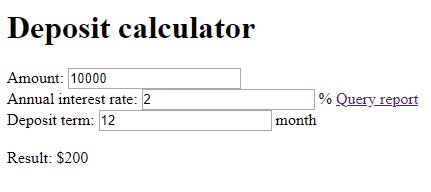
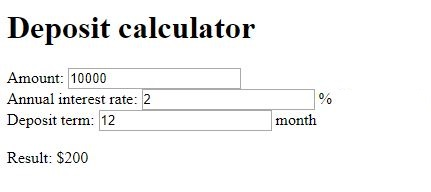
[+] add lightbox css style to art.md. [+] post 2019-04-10-Fix terminal after displaying binary codes

Changed region(s): [[0.7541, 0.4688, 0.9954, 0.5625]]

diff --git a/apps/google_pinyin_input_method_exercise_book/index.html b/apps/google_pinyin_input_method_exercise_book/index.html
@@ -147,7 +147,7 @@ function showBlockPage(){
 			      <li>前面帶有聲母的組合，舉例：ㄅㄧㄚ，聲母為ㄅ加上ㄧㄚ的組合，拼音為bia。</li>
 			      <li>注音一行拼音為<span style="color:blue">i<span>，ㄨ、ㄩ行拼音為<span style="color:blue">u</span>。</li>
 			      <li>如拼音不為兩個字，縮減為兩個字。例如：ㄧㄡ拼音為<span style="color:blue">iou</span>，留頭尾兩個字為<span style="color:blue">iu</span>。</li>
-	      <li>韻母為鼻音ㄥ，則留頭，尾巴留<span style="color:blue">ng</span>，共三個字。特例：ㄩㄥ，拼音為<span style="color:blue">iong</span>，ㄨㄥ，拼音為<span style="color:blue">ong</span>。這兩字發音與英文類似。例子：熊ㄒㄩㄥ，拼音為<span style="color:blue">xiong</span>。
+	      <li>韻母為鼻音ㄥ，則留頭，尾巴留<span style="color:blue">ng</span>，共三個字。特例：ㄩㄥ，拼音為<span style="color:blue">iong</span>，ㄨㄥ，拼音為<span style="color:blue">ong</span>。這兩字發音與英文類似。例子：熊ㄒㄩㄥ，拼音為<span style="color:blue">xiong</span>，翁ㄨㄥ，拼音為<span style="color:blue">weng</span>。
 	      </li>
 	      </h4>
 	      <table class="table table-striped">

diff --git a/apps/deposit-calculator/index.html b/apps/deposit-calculator/index.html
@@ -7,7 +7,7 @@
 <div ng-app="myApp" ng-controller="myCtrl">
 
 Amount: <input type="text" ng-model="amount" value="10000"/><br>
-Annual interest rate: <input type="text" ng-model="annualRate" value="2"/> % <a href="https://ebank.taipeifubon.com.tw/B2C/cfhqu/cfhqu012/CFHQU012_Home.faces?popupMode=true">Query report</a><br>
+Annual interest rate: <input type="text" ng-model="annualRate" value="2"/> % <!--<a href="https://ebank.taipeifubon.com.tw/B2C/cfhqu/cfhqu012/CFHQU012_Home.faces?popupMode=true">Query report</a>--><br>
 Deposit term: <input type="text" ng-model="depositTerm" value="12"/> month<br>
 <br>
 Result: ${{result()}}

diff --git a/assets/main.scss b/assets/main.scss
@@ -1,5 +1,5 @@
 ---
 # Only the main Sass file needs front matter (the dashes are enough)
 ---
-
+img{border:lightgray 1px dashed;}
 @import "minima";

diff --git a/art.md b/art.md
@@ -3,16 +3,244 @@ layout: page
 title: Art
 permalink: /art/
 ---
+<style>
+.row > .column {
+  padding: 0 8px;
+}
 
-This is the base Jekyll theme. You can find out more info about customizing your Jekyll theme, as well as basic Jekyll usage documentation at [jekyllrb.com](https://jekyllrb.com/)
+.row:after {
+  content: "";
+  display: table;
+  clear: both;
+}
 
-You can find the source code for Minima at GitHub:
-[jekyll][jekyll-organization] /
-[minima](https://github.com/jekyll/minima)
+/* Create four equal columns that floats next to eachother */
+.column {
+  float: left;
+  width: 25%;
+}
 
-You can find the source code for Jekyll at GitHub:
-[jekyll][jekyll-organization] /
-[jekyll](https://github.com/jekyll/jekyll)
+/* The Modal (background) */
+.modal {
+  display: none;
+  position: fixed;
+  z-index: 1;
+  padding-top: 100px;
+  left: 0;
+  top: 0;
+  width: 100%;
+  height: 100%;
+  overflow: auto;
+  background-color: black;
+}
+
+/* Modal Content */
+.modal-content {
+  position: relative;
+  background-color: #fefefe;
+  margin: auto;
+  padding: 0;
+  width: 90%;
+  max-width: 1200px;
+}
+
+/* The Close Button */
+.close {
+  color: white;
+  position: absolute;
+  top: 10px;
+  right: 25px;
+  font-size: 35px;
+  font-weight: bold;
+}
+
+.close:hover,
+.close:focus {
+  color: #999;
+  text-decoration: none;
+  cursor: pointer;
+}
+
+/* Hide the slides by default */
+.mySlides {
+  display: none;
+}
+
+/* Next & previous buttons */
+.prev,
+.next {
+  cursor: pointer;
+  position: absolute;
+  top: 50%;
+  width: auto;
+  padding: 16px;
+  margin-top: -50px;
+  color: white;
+  font-weight: bold;
+  font-size: 20px;
+  transition: 0.6s ease;
+  border-radius: 0 3px 3px 0;
+  user-select: none;
+  -webkit-user-select: none;
+}
+
+/* Position the "next button" to the right */
+.next {
+  right: 0;
+  border-radius: 3px 0 0 3px;
+}
+
+/* On hover, add a black background color with a little bit see-through */
+.prev:hover,
+.next:hover {
+  background-color: rgba(0, 0, 0, 0.8);
+}
+
+/* Number text (1/3 etc) */
+.numbertext {
+  color: #f2f2f2;
+  font-size: 12px;
+  padding: 8px 12px;
+  position: absolute;
+  top: 0;
+}
+
+/* Caption text */
+.caption-container {
+  text-align: center;
+  background-color: black;
+  padding: 2px 16px;
+  color: white;
+}
+
+img.demo {
+  opacity: 0.6;
+}
+
+.active,
+.demo:hover {
+  opacity: 1;
+}
+
+img.hover-shadow {
+  transition: 0.3s;
+}
+
+.hover-shadow:hover {
+  box-shadow: 0 4px 8px 0 rgba(0, 0, 0, 0.2), 0 6px 20px 0 rgba(0, 0, 0, 0.19);
+}
+</style>
+
+<h1>Gallery</h1>
+<!-- Images used to open the lightbox -->
+<div class="row">
+  <div class="column">
+    <img src="/assets/img_nature.jpg" onclick="openModal();currentSlide(1)" class="hover-shadow">
+  </div>
+  <div class="column">
+    <img src="/assets/img_snow.jpg" onclick="openModal();currentSlide(2)" class="hover-shadow">
+  </div>
+  <div class="column">
+    <img src="/assets/img_lights.jpg" onclick="openModal();currentSlide(3)" class="hover-shadow">
+  </div>
+</div>
+<div class="row">
+  <div class="column">
+    <img src="/assets/img_nature.jpg" onclick="openModal();currentSlide(1)" class="hover-shadow">
+  </div>
+  <div class="column">
+    <img src="/assets/img_snow.jpg" onclick="openModal();currentSlide(2)" class="hover-shadow">
+  </div>
+  <div class="column">
+    <img src="/assets/img_lights.jpg" onclick="openModal();currentSlide(3)" class="hover-shadow">
+  </div>
+</div>
+
+<!-- The Modal/Lightbox -->
+<div id="myModal" class="modal">
+  <span class="close cursor" onclick="closeModal()">&times;</span>
+  <div class="modal-content">
+
+    <div class="mySlides">
+      <div class="numbertext">1 / 3</div>
+      <img src="/assets/img_nature_wide.jpg" style="width:100%">
+    </div>
+
+    <div class="mySlides">
+      <div class="numbertext">2 / 3</div>
+      <img src="/assets/img_snow_wide.jpg" style="width:100%">
+    </div>
+
+    <div class="mySlides">
+      <div class="numbertext">3 / 3</div>
+      <img src="/assets/img_lights_wide.jpg" style="width:100%">
+    </div>
 
 
-[jekyll-organization]: https://github.com/jekyll
+    <!-- Next/previous controls -->
+    <a class="prev" onclick="plusSlides(-1)">&#10094;</a>
+    <a class="next" onclick="plusSlides(1)">&#10095;</a>
+
+    <!-- Caption text -->
+    <div class="caption-container">
+      <p id="caption"></p>
+    </div>
+
+    <!-- Thumbnail image controls -->
+    <div class="column">
+      <img class="demo" src="/assets/img_nature.jpg" onclick="currentSlide(1)" alt="Nature">
+    </div>
+
+    <div class="column">
+      <img class="demo" src="/assets/img_snow.jpg" onclick="currentSlide(2)" alt="Snow">
+    </div>
+
+    <div class="column">
+      <img class="demo" src="/assets/img_lights.jpg" onclick="currentSlide(3)" alt="Lights">
+    </div>
+
+  </div>
+</div>
+
+<script>
+// Open the Modal
+function openModal() {
+  document.getElementById('myModal').style.display = "block";
+}
+
+// Close the Modal
+function closeModal() {
+  document.getElementById('myModal').style.display = "none";
+}
+
+var slideIndex = 1;
+showSlides(slideIndex);
+
+// Next/previous controls
+function plusSlides(n) {
+  showSlides(slideIndex += n);
+}
+
+// Thumbnail image controls
+function currentSlide(n) {
+  showSlides(slideIndex = n);
+}
+
+function showSlides(n) {
+  var i;
+  var slides = document.getElementsByClassName("mySlides");
+  var dots = document.getElementsByClassName("demo");
+  var captionText = document.getElementById("caption");
+  if (n > slides.length) {slideIndex = 1}
+  if (n < 1) {slideIndex = slides.length}
+  for (i = 0; i < slides.length; i++) {
+    slides[i].style.display = "none";
+  }
+  for (i = 0; i < dots.length; i++) {
+    dots[i].className = dots[i].className.replace(" active", "");
+  }
+  slides[slideIndex-1].style.display = "block";
+  dots[slideIndex-1].className += " active";
+  captionText.innerHTML = dots[slideIndex-1].alt;
+}
+</script>

diff --git a/projects.md b/projects.md
@@ -3,19 +3,27 @@ layout: page
 title: Projects
 permalink: /projects/
 ---
-# Web APP List
-* [Interval Alarm]({{ site.baseurl }}{% link _posts/2018-09-18-Project Interval Alarm.markdown %})
-* [Deposit Calculator]({{ site.baseurl }}{% link _posts/2018-10-12-Project Deposit Calculator.markdown %})
+# Interval Alarm
+![intervalalarm](/assets/interval-alarm.PNG)
+I need a timer when I do a stretch exercise. A timer buildin my andoid clock app can do this. But it only alarm once. Next time I have to click the start button again. So I design Interval Alarm. Set remind me every 30 seconds.
+
+[<i class="fa fa-chain"></i> Try Interval Alarm](http://perrot.github.io/apps/interval-alarm)
+
+# Deposit Calculator
+![depositcalculator](/assets/deposit-calculator.JPG)
+I need a calculator when I calculate deposit.
+
+[<i class="fa fa-chain"></i> Try Deposit Calculator](http://perrot.github.io/apps/deposit-calculator)
 
 # HOW STRENGTH IS MY PASSWORD?
 ![howstrengthismyps](/assets/howstrengthismyps.png)
 A tool I can check my password is strength enough. And create three level strength password by clicking a button. If the password is strong, copy it by clicking a button.
 
-Go to [HOW STRENGTH IS MY PASSWORD?](http://http://perrot.github.io/apps/howstrengthismyps/index.html)
+[<i class="fa fa-chain"></i> Try HOW STRENGTH IS MY PASSWORD?](http://perrot.github.io/apps/howstrengthismyps/index.html)
 
 # 谷歌拼音輸入法練習簿 (Google Chinese pinyin input method practice notebook)
 ![pinyin-input-method](/assets/pinyin-input-method.PNG)
 I learn Google Chinese pinyin input method from internet. Because it can memorize easily. I build the notebook for studying. And I want to share it with anyone who wants to learn a Chinese input method. After learning how to type Chinese characters, you can practice in the test program. 
 
-Try it at [谷歌拼音輸入法練習簿](http://http://perrot.github.io/apps/google_pinyin_input_method_exercise_book/index.html)
+[<i class="fa fa-chain"></i> Try 谷歌拼音輸入法練習簿](http://perrot.github.io/apps/google_pinyin_input_method_exercise_book/index.html)
 
